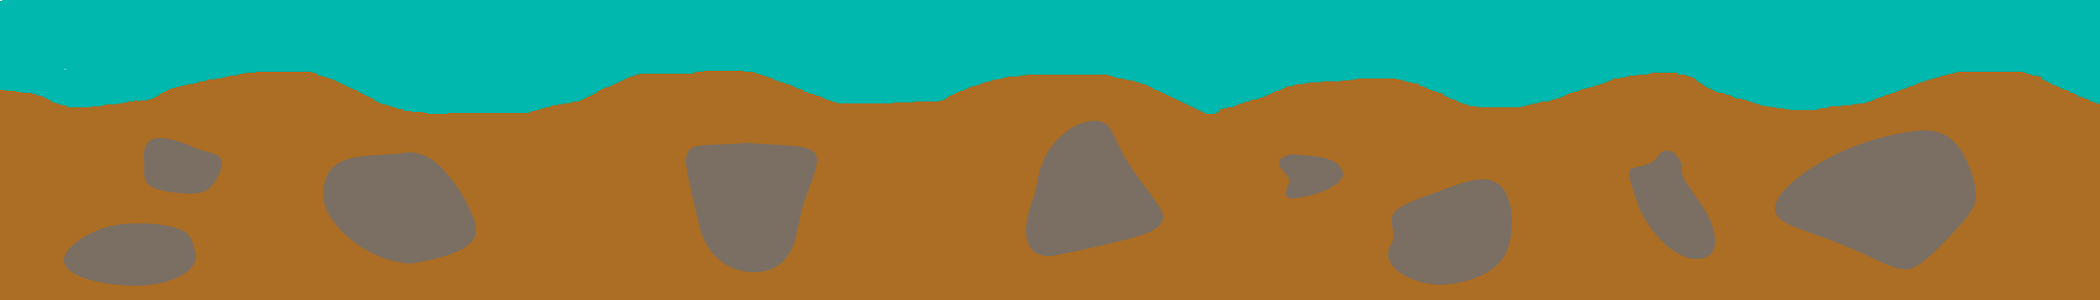
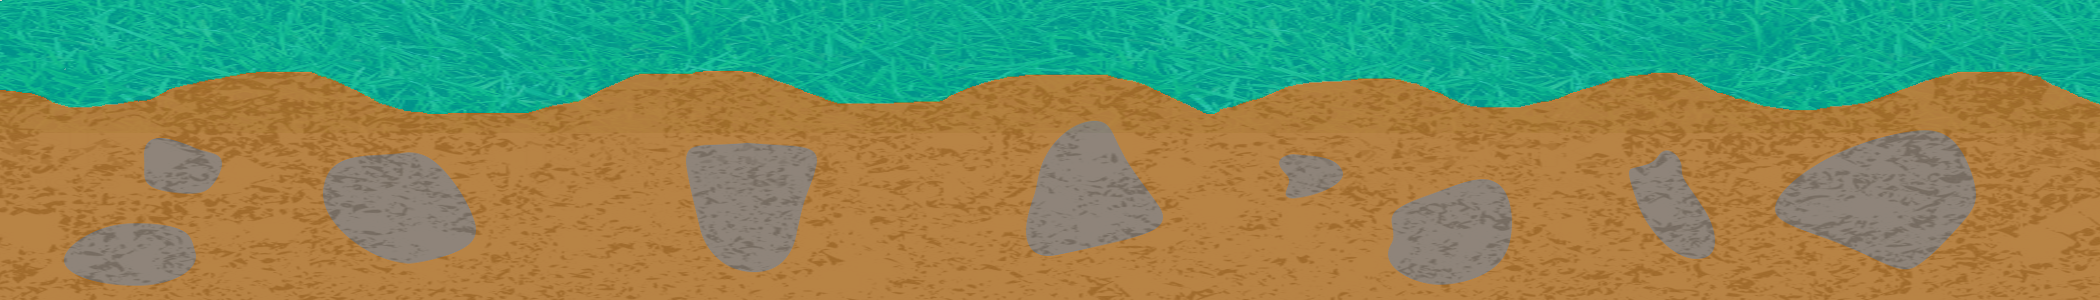
Capturas para readme

diff --git a/README.md b/README.md
@@ -9,7 +9,7 @@ SeeYouAtTheSummit (o SYATS para abreviar) es un juego diseñado para PC en el qu
 SYATS es un juego que mezcla las mecánicas de movimiento del género de plataformas con la capacidad de construir estructuras con piezas aleatorias que caen del cielo al más puro estilo Tetris. El juego está destinado a todos los públicos, pero sobre todo aquellos que sientan nostalgia por el clásico Tetris encontrarán en SYATS la esencia que les hizo amarlo.\
 Para su desarrollo, se empleará el lenguaje de programación JavaScript en el entorno de desarrollo de Phaser. En cuanto a la edición de sonido/música e imágenes, se utilizarán los programas Reaper y Photoshop respectivamente.
 
-![](https://github.com/RedWireWire/SeeYouAtTheSummit/blob/master/Interfaces/Pantalla%20de%20juego.png)
+![](https://github.com/RedWireWire/SeeYouAtTheSummit/blob/master/Assets/Capturas/1.png)
 
 # Mecánicas de juego
 Crear plataformas:\
